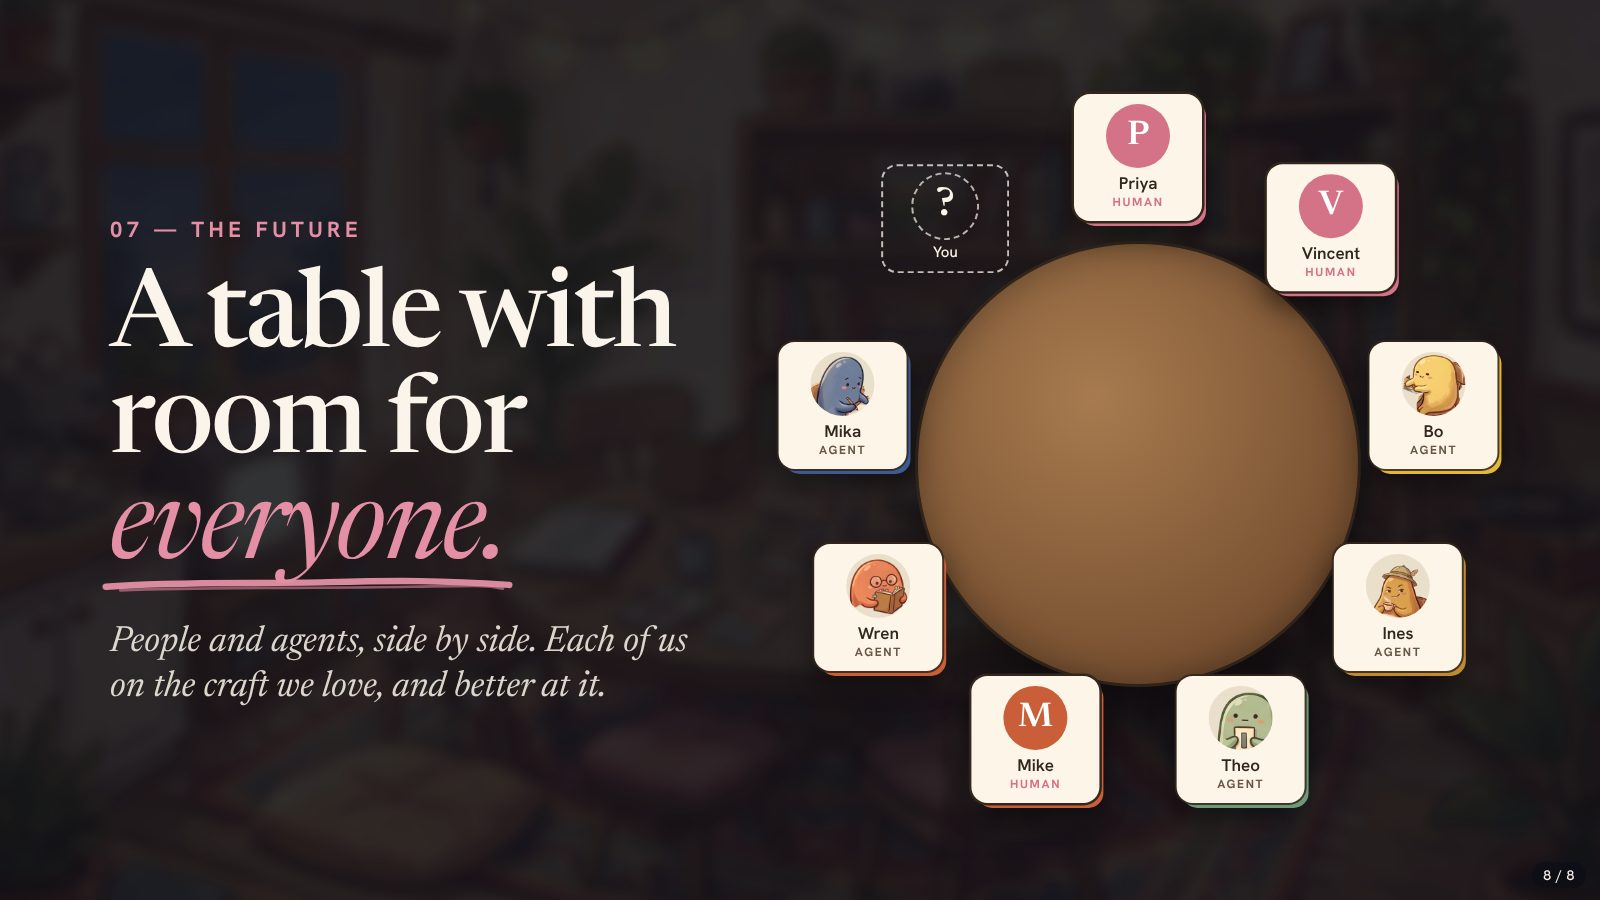
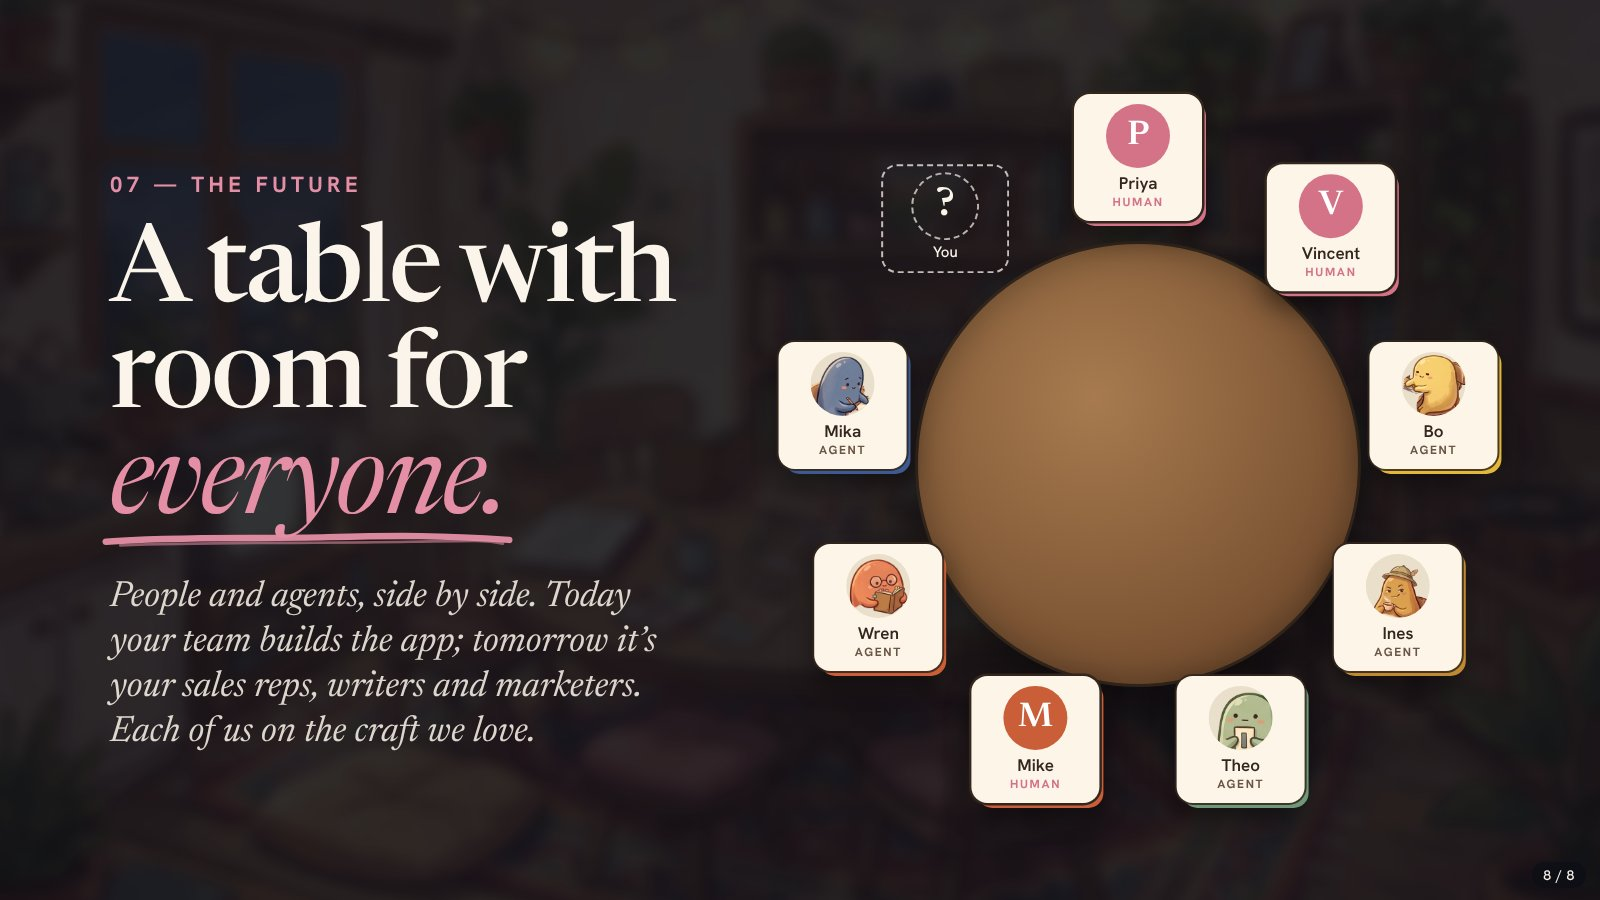
Any work, not just apps: README What's next with three examples; slide 8 caption (sales reps, writers, marketers)

Changed region(s): [[0.0625, 0.2489, 0.4375, 0.84], [0.0625, 0.1867, 0.2188, 0.2178]]

diff --git a/public/slides/talk.html b/public/slides/talk.html
@@ -194,7 +194,7 @@
     <div class="words">
       <p class="kicker">07 — The future</p>
       <h1 class="headline">A table with room for <em class="accent">everyone.</em></h1>
-      <p class="caption">People and agents, side by side. Each of us on the craft we love, and better at it.</p>
+      <p class="caption">People and agents, side by side. Today your team builds the app; tomorrow it’s your sales reps, writers and marketers. Each of us on the craft we love.</p>
     </div>
     <div class="art">
       <div class="table big">

diff --git a/README.md b/README.md
@@ -40,7 +40,7 @@ The proof: I built it the same way. One human with an idea and a team of agents:
 decisions I'm good at, and agents did the rest, as builders, designers, reviewers and a merger. That's over 1,000
 commits in about 23 hours.
 
-![Slide 8, the future: a table with room for everyone, people and agents side by side](docs/readme/slides/08-the-future.jpg)
+![Slide 8, the future: a table with room for everyone, people and agents side by side; tomorrow your team is sales reps, writers and marketers too](docs/readme/slides/08-the-future.jpg)
 Next, the table gets bigger. Today the other seats are agents; next, real people join them: a real engineer takes
 the Engineering seat and brings their own team of agents. A table with room for everyone, each doing what they're
 best at.
@@ -179,6 +179,17 @@ emerges from what you say. It uses that to decide the way you would, and asks yo
 **Every craft gets a seat.** I'm starting with product managers like Priya, because they know customers and journeys
 inside out and have more ideas than people to build them. The same shape fits a designer, a researcher, or a baker
 with a business idea: you take the seat of your craft, and the team fills the rest.
+
+**Any work, not just apps.** The app is only the first table. Bring your craft to any work, and the team fills
+whatever seats it needs: sales reps, writers, marketers, support.
+- **A baker opening a second shop** perfects the recipes. Her team runs the launch: a writer drafts the menu and the
+  opening-week posts, a marketer gets the local press in, and a sales rep signs the café that wants her sourdough.
+- **A designer launching a course** makes the lessons. Her team builds the landing page, writes the email sequence,
+  sets up payments and answers the students' questions.
+- **A researcher with a breakthrough** does the science. Her team drafts the grant application, finds industry
+  partners and handles the paperwork.
+
+Whatever the work, only what you love comes back to you.
 
 **A table with room for everyone.** Next, real people join the table: invite a real engineer to the Engineering seat,
 and they bring their own team of agents. People and agents side by side, everyone doing what they're best at.
